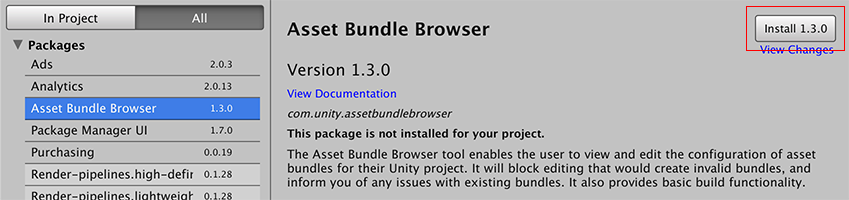
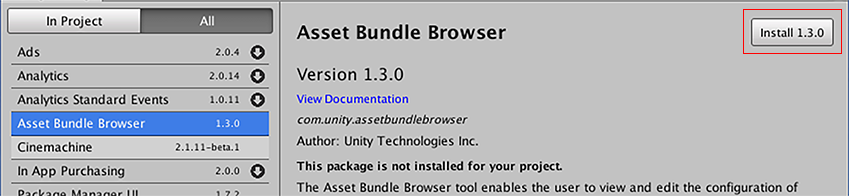
1.8.0 - 2018/02/20 @2018.1

Changed region(s): [[0.0, 0.0, 1.0, 1.0]]

diff --git a/package/Editor/Sources/UI/PackageList.cs b/package/Editor/Sources/UI/PackageList.cs
@@ -121,6 +121,7 @@ namespace UnityEditor.PackageManager.UI
                 return;
             }
             
+#if UNITY_2018_2_OR_NEWER
             if (evt.keyCode == KeyCode.LeftArrow)
             {
                 if (selectedItem.packageGroup != null)
@@ -145,6 +146,7 @@ namespace UnityEditor.PackageManager.UI
                 evt.StopPropagation();
                 return;
             }
+#endif
 
             if (evt.keyCode == KeyCode.PageUp)
             {
@@ -245,9 +247,14 @@ namespace UnityEditor.PackageManager.UI
             List.Add(builtInGroup);
 
             packagesGroup.previousGroup = null;
+#if UNITY_2018_2_OR_NEWER
             packagesGroup.nextGroup = builtInGroup;
             builtInGroup.previousGroup = packagesGroup;
             builtInGroup.nextGroup = null;
+#else
+            packagesGroup.nextGroup = null;
+            UIUtils.SetElementDisplay(builtInGroup, false);
+#endif
 
             root.Q<VisualElement>(loadingId).visible = false;
             LoadingSpinner.Stop();

diff --git a/package/Editor/Sources/Services/Packages/Package.cs b/package/Editor/Sources/Services/Packages/Package.cs
@@ -25,7 +25,7 @@ namespace UnityEditor.PackageManager.UI
         }
 
         public PackageInfo Current { get { return Versions.FirstOrDefault(package => package.IsCurrent); } }
-        public PackageInfo Latest { get { return Versions.LastOrDefault(package => package.IsLatest) ?? Versions.LastOrDefault(); } }
+        public PackageInfo Latest { get { return Versions.FirstOrDefault(package => package.IsLatest) ?? Versions.Last(); } }
                 
         public IEnumerable<PackageInfo> Versions { get { return source.OrderBy(package => package.Version); } }
         public string Name { get { return packageName; } }

diff --git a/package/Editor/Sources/UI/PackageGroup.cs b/package/Editor/Sources/UI/PackageGroup.cs
@@ -34,7 +34,13 @@ namespace UnityEditor.PackageManager.UI
             Add(root);
             listElement = List;
 
+#if UNITY_2018_2_OR_NEWER
             Header.AddManipulator(new Clickable(ToggleCollapse));
+#else
+            List.style.marginLeft = 0;
+            Header.style.height = 0;
+#endif
+            
             if (string.IsNullOrEmpty(groupName) || groupName != PackageGroupOrigins.BuiltInPackages.ToString())
             {
                 HeaderTitle.text = "Packages";

diff --git a/package/Documentation/package-manager-ui.md b/package/Documentation/package-manager-ui.md
@@ -1,7 +1,7 @@
 # Package Manager
-A package is a container that holds anything from an entire module of Unity (such as Physics or Animation) to any combination of Assets, Shaders, Textures, plug-ins, icons, and scripts that enhance various parts of your project. Unity packages are newer, more tightly integrated versions of Asset Store packages, able to deliver a wide range of enhancements to Unity. 
+A package is a container that holds any combination of Assets, Shaders, Textures, plug-ins, icons, and scripts that enhance various parts of your project. Unity packages are newer, more tightly integrated versions of Asset Store packages, able to deliver a wide range of enhancements to Unity. 
 
-Use the Package Manager window to view which packages are available for installation or already installed in your project. In addition, you can use this window to [install](#PackManInstall), [remove](#PackManRemove), [disable](#PackManDisable), or [update](#PackManUpdate) packages for each project.
+Use the Package Manager window to view which packages are available for installation or already installed in your project. In addition, you can use this window to [install](#PackManInstall), [remove](#PackManRemove), or [update](#PackManUpdate) packages for each project.
 
 ![Package Manger window](Images/PackageManagerUI-Main.png)
 
@@ -9,11 +9,6 @@ The Package Manager window displays a [list view](#PackManLists) on the left and
 
 <a name="PackManLists"></a>
 ## Finding packages
-The Package Manager window displays two types of Unity packages:
- - Read-only **Packages**, which Package Manager downloads from the [Unity package registry](#PackManRegistry) as needed. They are not bundled with the project source and they may have dependencies on other packages in external projects. This type is typical of most Unity packages.
- - **Built In Packages** or *Modules*, which represent some of the core Unity features. You can use these packages to [turn Unity modules on and off](#PackManDisable).<br>
- **Note:** You can find out more about what each module implements in the [Unity Scripting API](https://docs.unity3d.com/ScriptReference/). Each module assembly page lists which APIs the module implements.
-
 By default, the Package Manager window displays the list of packages in the **In Project** mode, so that only the packages already installed in your project appear in the list. 
 
 To expand the list to include all available packages, click the **All** button. The list now displays everything registered in the [package registry](#PackManRegistry), regardless of whether they are already installed in the project.
@@ -29,13 +24,14 @@ The pane on the right side of the Package Manager window displays details about 
 
 These details include the following information:
  - (A) The display name 
- - (B) The version number 
+ - (B) The version number (and tag, if available)
  - \(C\) The link to open the package documentation page 
  - (D) The official package name from the registry starting with `com.unity.` 
- - (E) The installation or update status
- - (F) A brief description 
- - (G) Buttons to install, remove, disable, or update the package
- - (H) The link to open the package change log
+ - (E) The author
+ - (F) The installation or update status
+ - (G) A brief description 
+ - (H) Buttons to install, remove, or update the package
+ - (I) The link to open the package change log
 
 ### Version tags
 Some packages display special tags next to the version number. These tags convey special information about that version of the package. 
@@ -65,7 +61,6 @@ You can perform a variety of tasks through the Package Manager window:
 
  - [Install a new package](#PackManInstall)
  - [Remove an installed package](#PackManRemove)
- - [Disable a built-in package](#PackManDisable)
  - [Update an installed package](#PackManUpdate)
 
  To open the Package Manager window, select **Window > Package Manager** from the main menu. 
@@ -95,22 +90,6 @@ To remove an installed package:
  - You can only remove packages which are not required by another package. 
  - When you remove a package, any editor or runtime functionality which it implemented is no longer available.
 
-<a name="PackManDisable"></a>
-### Disabling a built-in package
-![Disable button](Images/PackageManagerUI-DisableButton.png)
-
-To disable a built-in package:
- 1. Open the Project Manager window.
- 2. Click the **In Project** button if you are in **All** mode. 
- 3. Expand the **Built In Packages** list in the left pane.
- 4. Select the package you want to remove from the **Built In Packages** list. Its information appears in the Details pane.
- 5. Click the **Disable** button. When the progress bar finishes, the package disappears from the list.
- 
-**Note:** When you disable a built-in package, the corresponding Unity functionality is no longer available:
-- If you use a Scripting API implemented by a disabled package, you get compiler errors.
-- Components implemented by that built-in package are disabled too. You cannot add them to any GameObjects. If you have a GameObject that already has one of these components, Unity ignores them in Play mode. You can see them in the Inspector window but they are greyed out to indicate that they are not available.
-- When building a game, Unity strips all disabled components. For build targets which support engine code stripping (like WebGL, iOS, and Android), Unity doesn't add any code from a disabled built-in package.
-
 <a name="PackManUpdate"></a>
 ### Updating an installed package
 ![Update button](Images/PackageManagerUI-UpdateButton.png)
@@ -121,7 +100,7 @@ You can update a package while in either the **In Project** or **All** mode:
  3. Click the **Update to X.X.X** button. When the progress bar finishes, the new package version information appears in the Details pane and any new functionality is available. 
 
 ## Advanced package topics
-This section provides more advanced information about the package manifest file but you don't need to know anything about these topics to install, remove, disable, and update packages.
+This section provides more advanced information about the package manifest file but you don't need to know anything about these topics to install, remove, and update packages.
 
 A Unity package contains a [package manifest file](#PackManManifestsPackage) in addition to the contents (Assets, Shaders, Textures, plug-ins, icons and scripts). The package manifest tells Unity how to display its information page in the Package Manager window and how to install the package in the project.
 
@@ -218,6 +197,7 @@ Package Manager includes the following known limitations:
 ## Documentation revision history
 |Date|Reason|
 |---|---|
+|Feb 19, 2018|Documentation updated. Matches package version 1.8.0.|
 |Feb 8, 2018|Documentation updated. Matches package version 1.7.0.|
 |Feb 6, 2018|Documentation cleaned up. Matches package version 1.6.1.|
 |Jan 31, 2018|Documentation updated (developmental review)|

diff --git a/package/CHANGELOG.md b/package/CHANGELOG.md
@@ -4,6 +4,10 @@ All notable changes to this package will be documented in this file.
 The format is based on [Keep a Changelog](http://keepachangelog.com/en/1.0.0/)
 and this project adheres to [Semantic Versioning](http://semver.org/spec/v2.0.0.html).
 
+## [1.8.0] - 2018-02-16
+- Hide built-in packages
+- Fix packages sorting in All tab
+
 ## [1.7.3] - 2018-02-16
 - Will no longer loop error report with an invalid manifest
 
